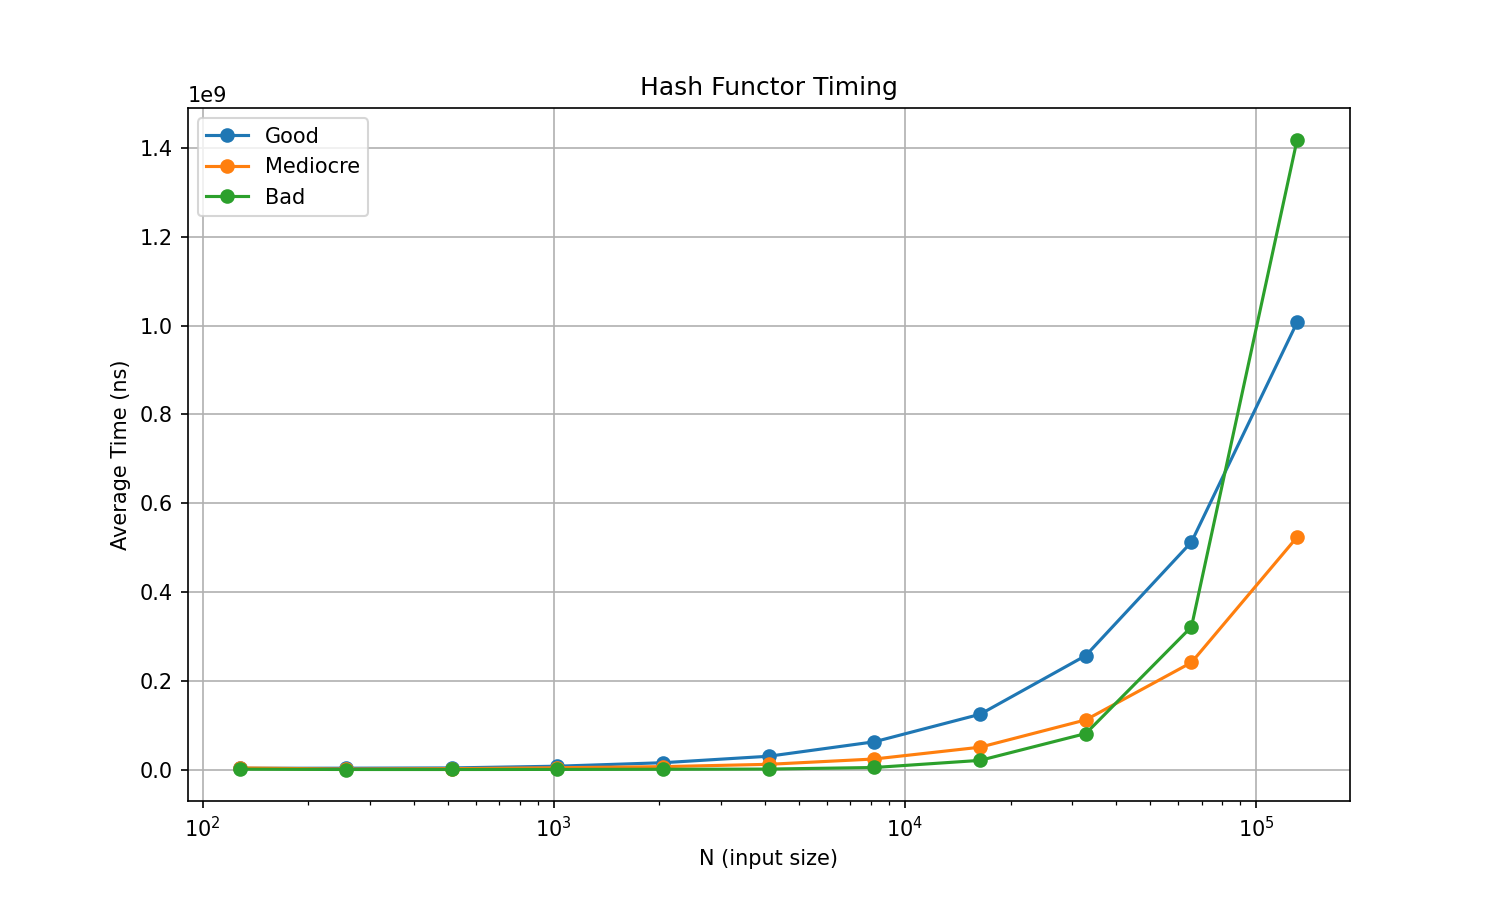
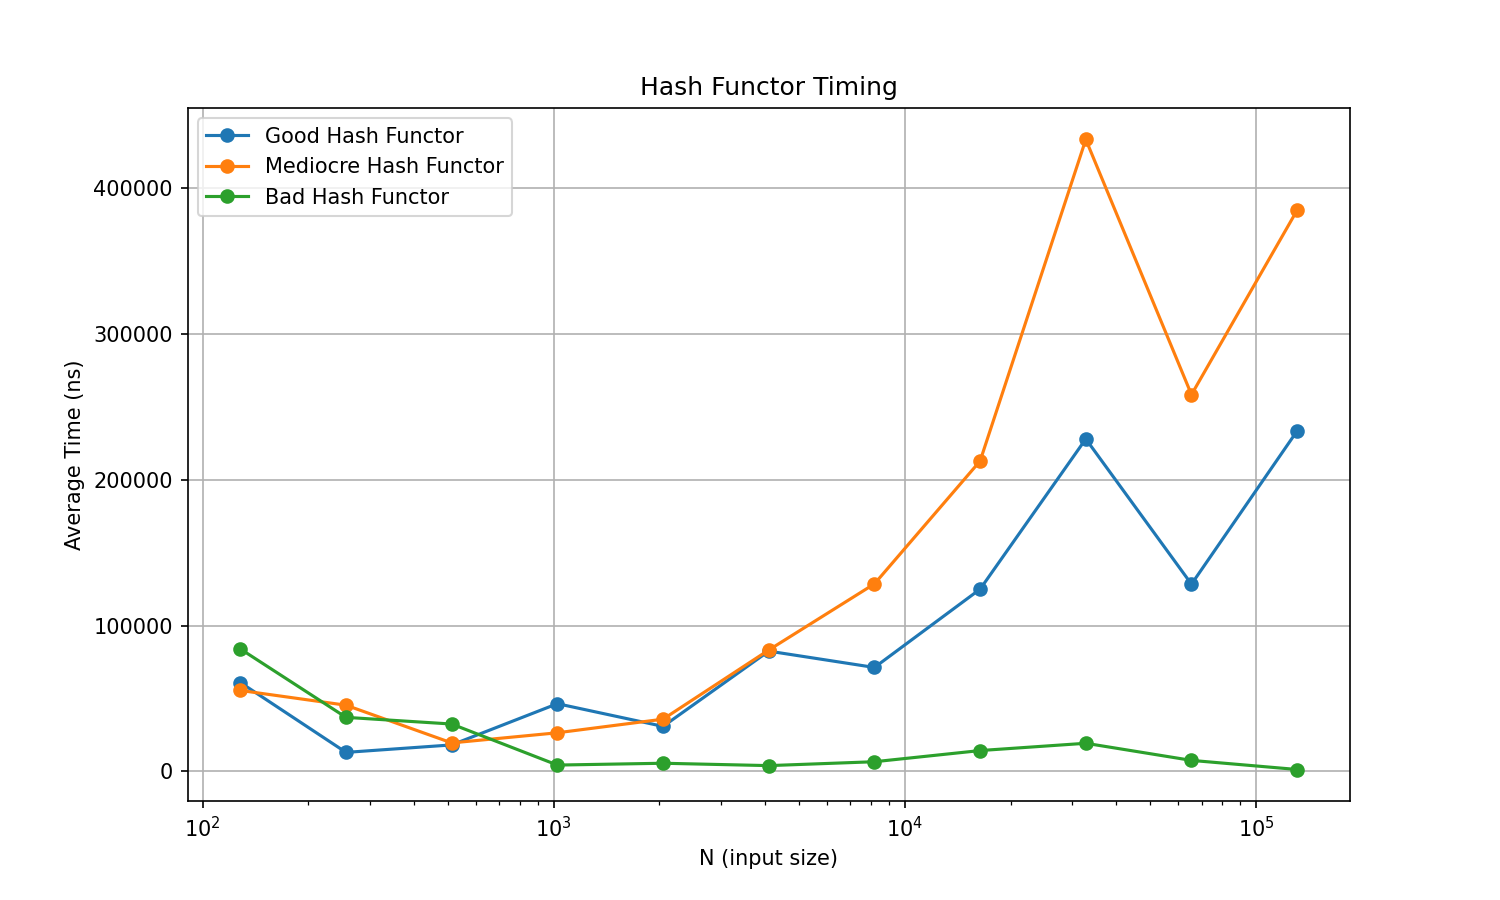
Corrected Assignment 7

diff --git a/CS6012/Day 12/HashTables/src/assignment07/ChainingHashTableCollisions.java b/CS6012/Day 12/HashTables/src/assignment07/ChainingHashTableCollisions.java
@@ -5,7 +5,7 @@ import java.io.FileWriter;
 import java.io.IOException;
 import java.util.*;
 
-public class ChainingHashTableTiming extends TimerTemplate {
+public class ChainingHashTableCollisions extends TimerTemplate {
     int size = (int) (Math.pow(2, 19));
 
     /**
@@ -14,18 +14,18 @@ public class ChainingHashTableTiming extends TimerTemplate {
      * @param problemSizes array of N's to use
      * @param timesToLoop  number of times to repeat the tests
      */
-    public ChainingHashTableTiming(int[] problemSizes, int timesToLoop) {
+    public ChainingHashTableCollisions(int[] problemSizes, int timesToLoop) {
         super(problemSizes, timesToLoop);
     }
     private final int Capacity = 100000;
     // for analysis use enum for testFunc to separate good, mediocre, and bad
     // Use another hashmap to store n values and strings (HashMap<Integer, ArrayList<String>>
     // We can use hashmaps to track collisions.
-    private static final GoodHashFunctor GoodHashFunctor = new GoodHashFunctor();
-    private static final BadHashFunctor BadHashFunctor = new BadHashFunctor();
-    private static final MediocreHashFunctor MediocreHashFunctor = new MediocreHashFunctor();
+    static HashMap<Integer, Integer> goodCollisions = new HashMap<>();
+    static HashMap<Integer, Integer> mediocreCollisions = new HashMap<>();
+    static HashMap<Integer, Integer> badCollisions = new HashMap<>();
 
-    HashMap<Integer, String> N_Items = new HashMap<>();
+    HashMap<Integer, LinkedList<String>> N_Items = new HashMap<>();
     private final int wordLength = 1000;
     private final Random rand = new Random();
 
@@ -41,52 +41,69 @@ public class ChainingHashTableTiming extends TimerTemplate {
 
     @Override
     protected void setup(int n) {
+        switch(hashFunctors) {
+            case BAD:
+                instance = new ChainingHashTable(Capacity, new BadHashFunctor());
+                break;
+            case MEDIOCRE:
+                instance = new ChainingHashTable(Capacity, new MediocreHashFunctor());
+                break;
+            case GOOD:
+                instance = new ChainingHashTable(Capacity, new GoodHashFunctor());
+                break;
+        }
+
         if(N_Items.containsKey(n)) {
             return;
         }
+        N_Items.put(n, new LinkedList<>());
 
-        String n_str = "";
-
-        while(n_str.length() < n) {
-            n_str += rand.nextInt(Character.MAX_VALUE);
+        while(N_Items.get(n).size() < n) {
+            String current = "";
+            for(int i = 0; i < wordLength; i++) {
+                current += rand.nextInt(Character.MAX_VALUE);
+            }
+            N_Items.get(n).add(current);
         }
-        N_Items.put(n, n_str);
     }
 
     @Override
     protected void timingIteration(int n) {
+        instance.addAll(N_Items.get(n));
         switch(hashFunctors) {
             case BAD:
-                BadHashFunctor.hash(N_Items.get(n));
-                break;
-            case MEDIOCRE:
-                MediocreHashFunctor.hash(N_Items.get(n));
-                break;
-            case GOOD:
-                GoodHashFunctor.hash(N_Items.get(n));
-                break;
+              badCollisions.put(n, instance.collisions());
+              break;
+          case MEDIOCRE:
+              mediocreCollisions.put(n, instance.collisions());
+              break;
+          case GOOD:
+              goodCollisions.put(n, instance.collisions());
+              break;
         }
     }
 
     @Override
     protected void compensationIteration(int n) {
+        N_Items.get(n);
+
         switch(hashFunctors) {
             case BAD:
-                N_Items.get(n);
+                badCollisions.put(-1, instance.collisions());
                 break;
             case MEDIOCRE:
-                N_Items.get(n);
+                mediocreCollisions.put(-1, instance.collisions());
                 break;
             case GOOD:
-                N_Items.get(n);
+                goodCollisions.put(-1, instance.collisions());
                 break;
         }
     }
 
     public static void main() throws IOException {
         ArrayList<Integer> problemSizes = new ArrayList<>();
-        for (int n = 7; n < 18; n++) {
-            problemSizes.add((int) Math.pow(2, n));
+        for(int n = 7; n < 18; n++) {
+            problemSizes.add((int) Math.pow(2,n));
         }
 
         int[] size = new int[problemSizes.size()];
@@ -94,13 +111,13 @@ public class ChainingHashTableTiming extends TimerTemplate {
             size[i] = problemSizes.get(i);
         }
 
-        var timer = new ChainingHashTableTiming(size, 1);
+        var timer = new ChainingHashTableCollisions(size, 1);
 
         Result[] goodTime = new Result[size.length];
         Result[] mediocreTime = new Result[size.length];
         Result[] badTime = new Result[size.length];
 
-        for (HashType hashType : HashType.values()) {
+        for(HashType hashType : HashType.values()) {
             hashFunctors = hashType;
 
             switch (hashFunctors) {
@@ -116,25 +133,26 @@ public class ChainingHashTableTiming extends TimerTemplate {
             }
         }
 
-        String fileName = "HashFunctorTiming.csv";
         String COMMA_DELIMITER = ",";
         String NEW_LINE_SEPARATOR = "\n";
-        BufferedWriter writerTime = new BufferedWriter(new FileWriter(fileName));
+
+        String fileName2 = "HashFunctorCollisions.csv";
+        BufferedWriter writerColl = new BufferedWriter(new FileWriter(fileName2));
 
         System.out.println("Function Timing:");
-        String headers = "N, Good, Mediocre, Bad" + NEW_LINE_SEPARATOR;
-        writerTime.write(headers);
+        String headers2 = "N, Good, Mediocre, Bad" + NEW_LINE_SEPARATOR;
+        writerColl.write(headers2);
 
-        for (int i = 0; i < goodTime.length; i++) {
-            writerTime.write(size[i]
+        for(int i = 0; i < goodTime.length; i++) {
+            writerColl.write(size[i]
                     + COMMA_DELIMITER
-                    + goodTime[i].avgNanoSecs()
+                    + goodCollisions.get(size[i])
                     + COMMA_DELIMITER
-                    + mediocreTime[i].avgNanoSecs()
+                    + mediocreCollisions.get(size[i])
                     + COMMA_DELIMITER
-                    + badTime[i].avgNanoSecs()
+                    + badCollisions.get(size[i])
                     + NEW_LINE_SEPARATOR);
         }
-        writerTime.close();
+        writerColl.close();
     }
 }
